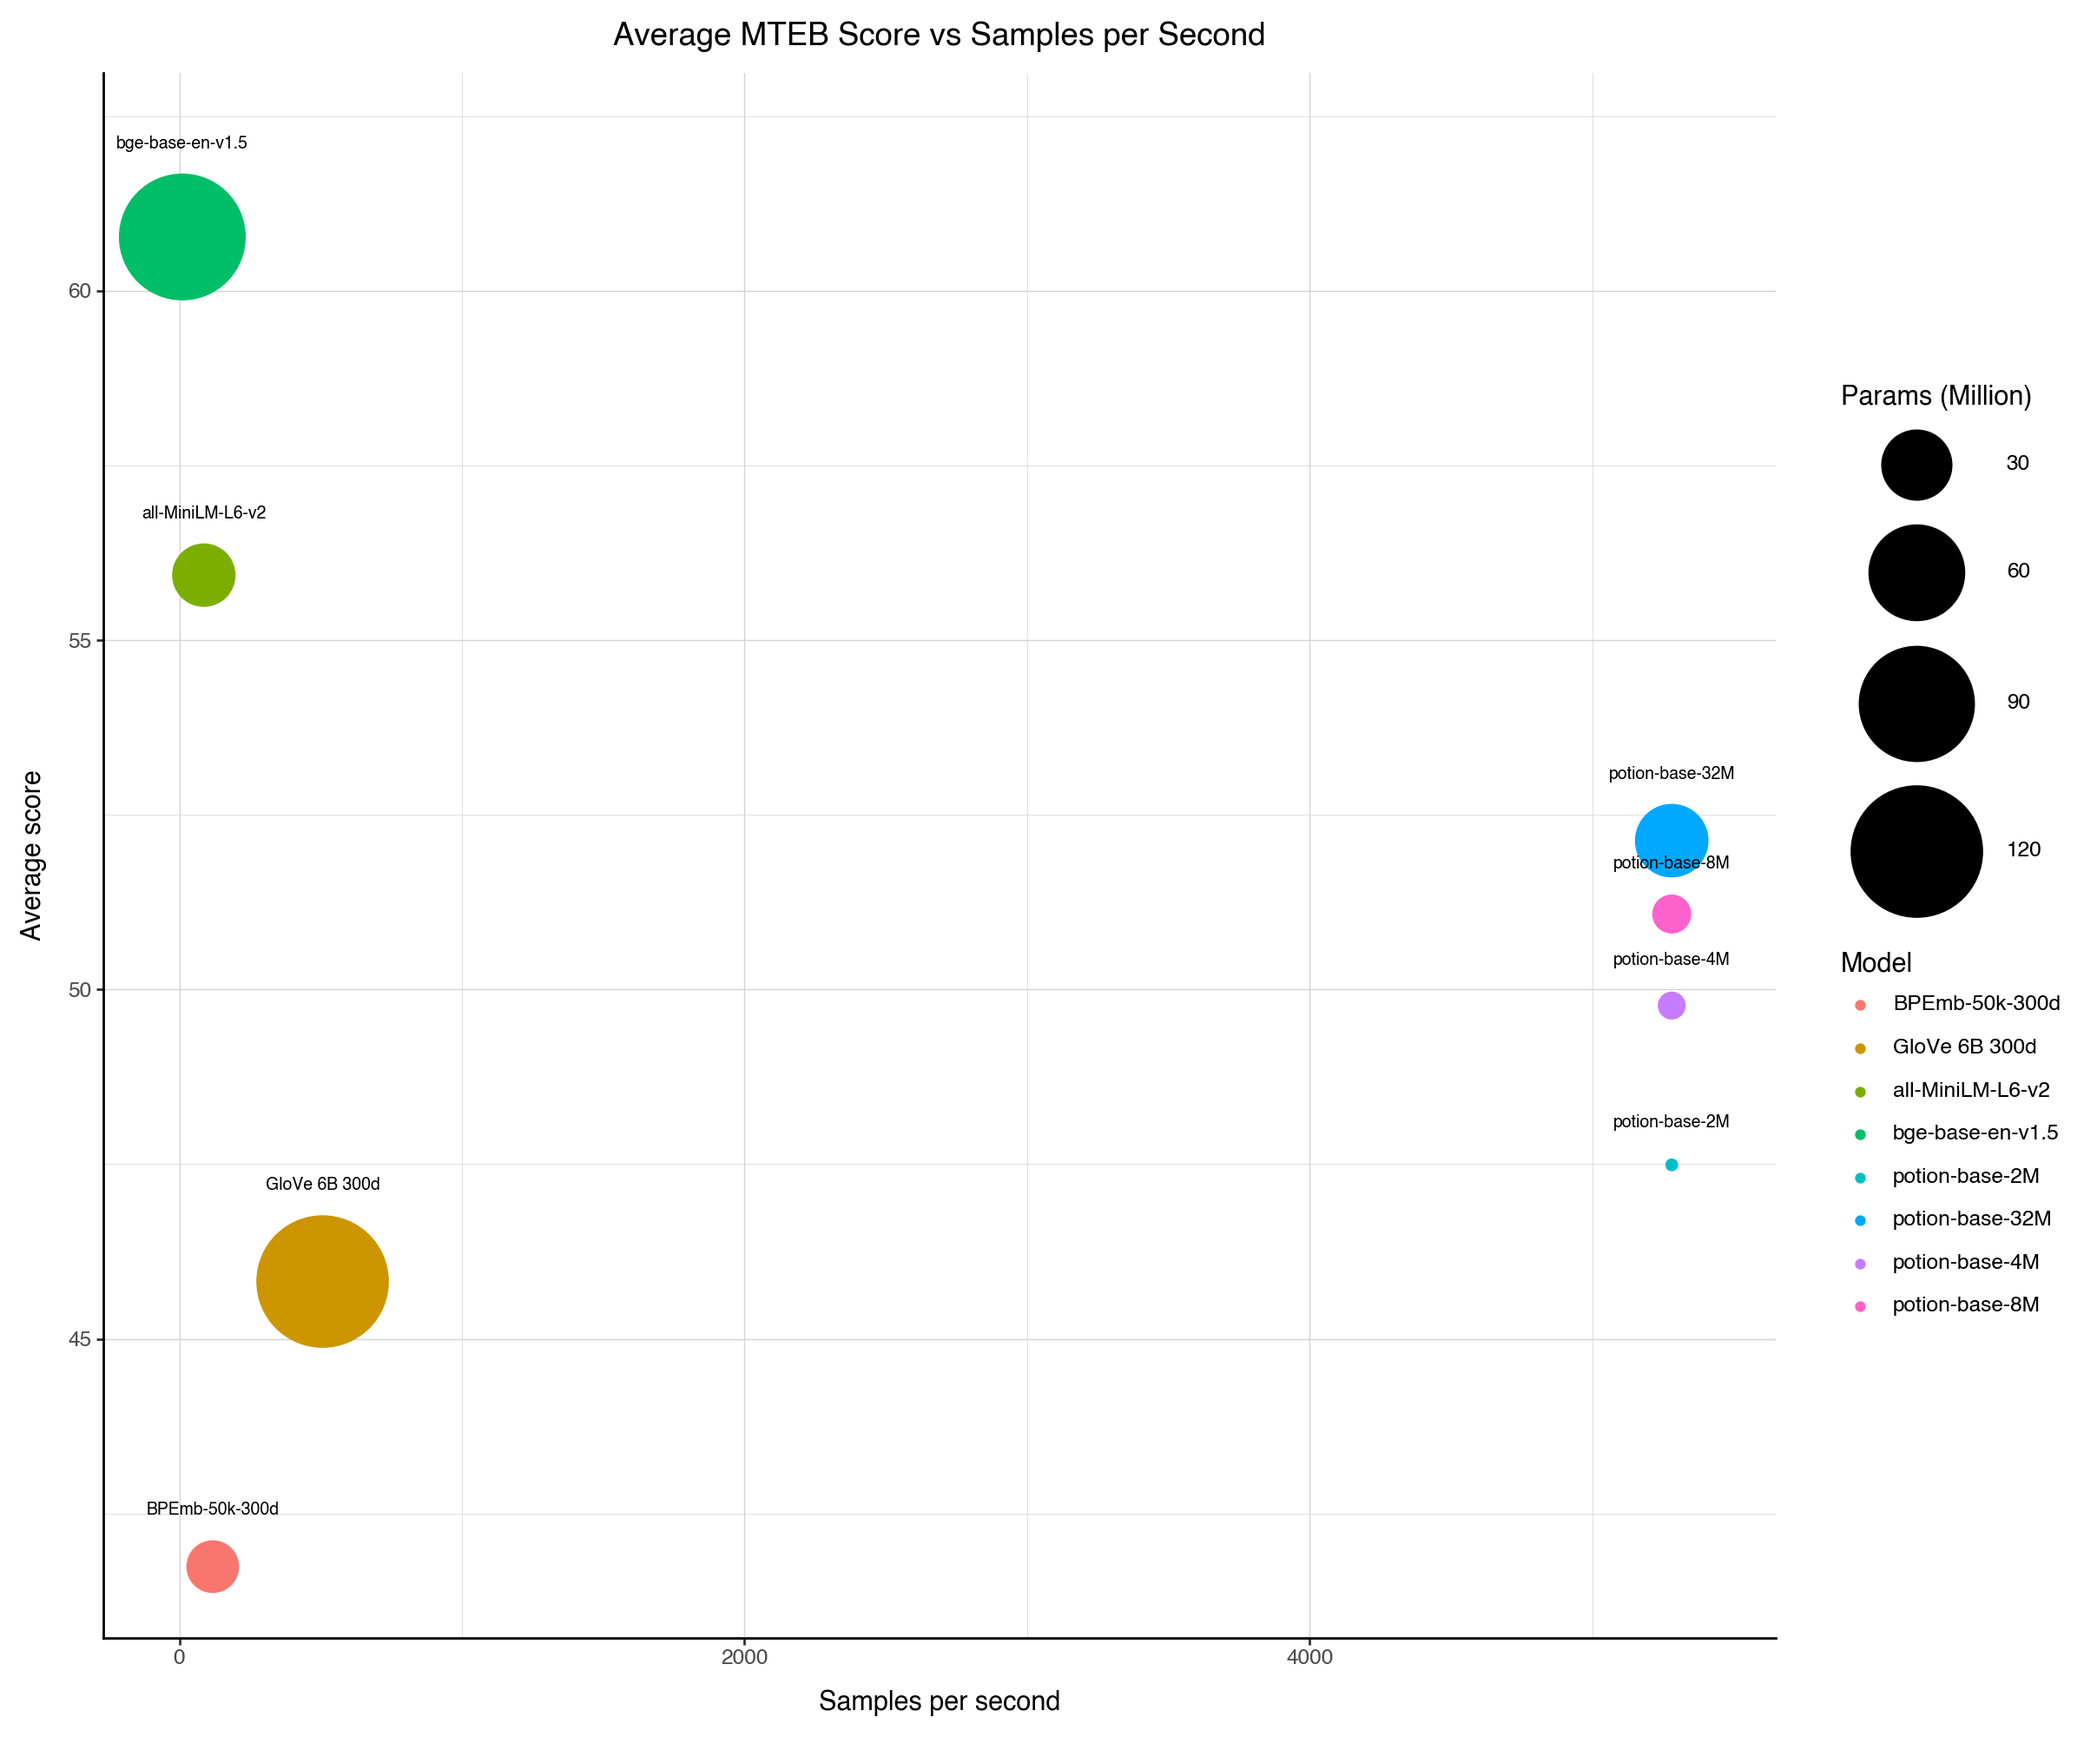
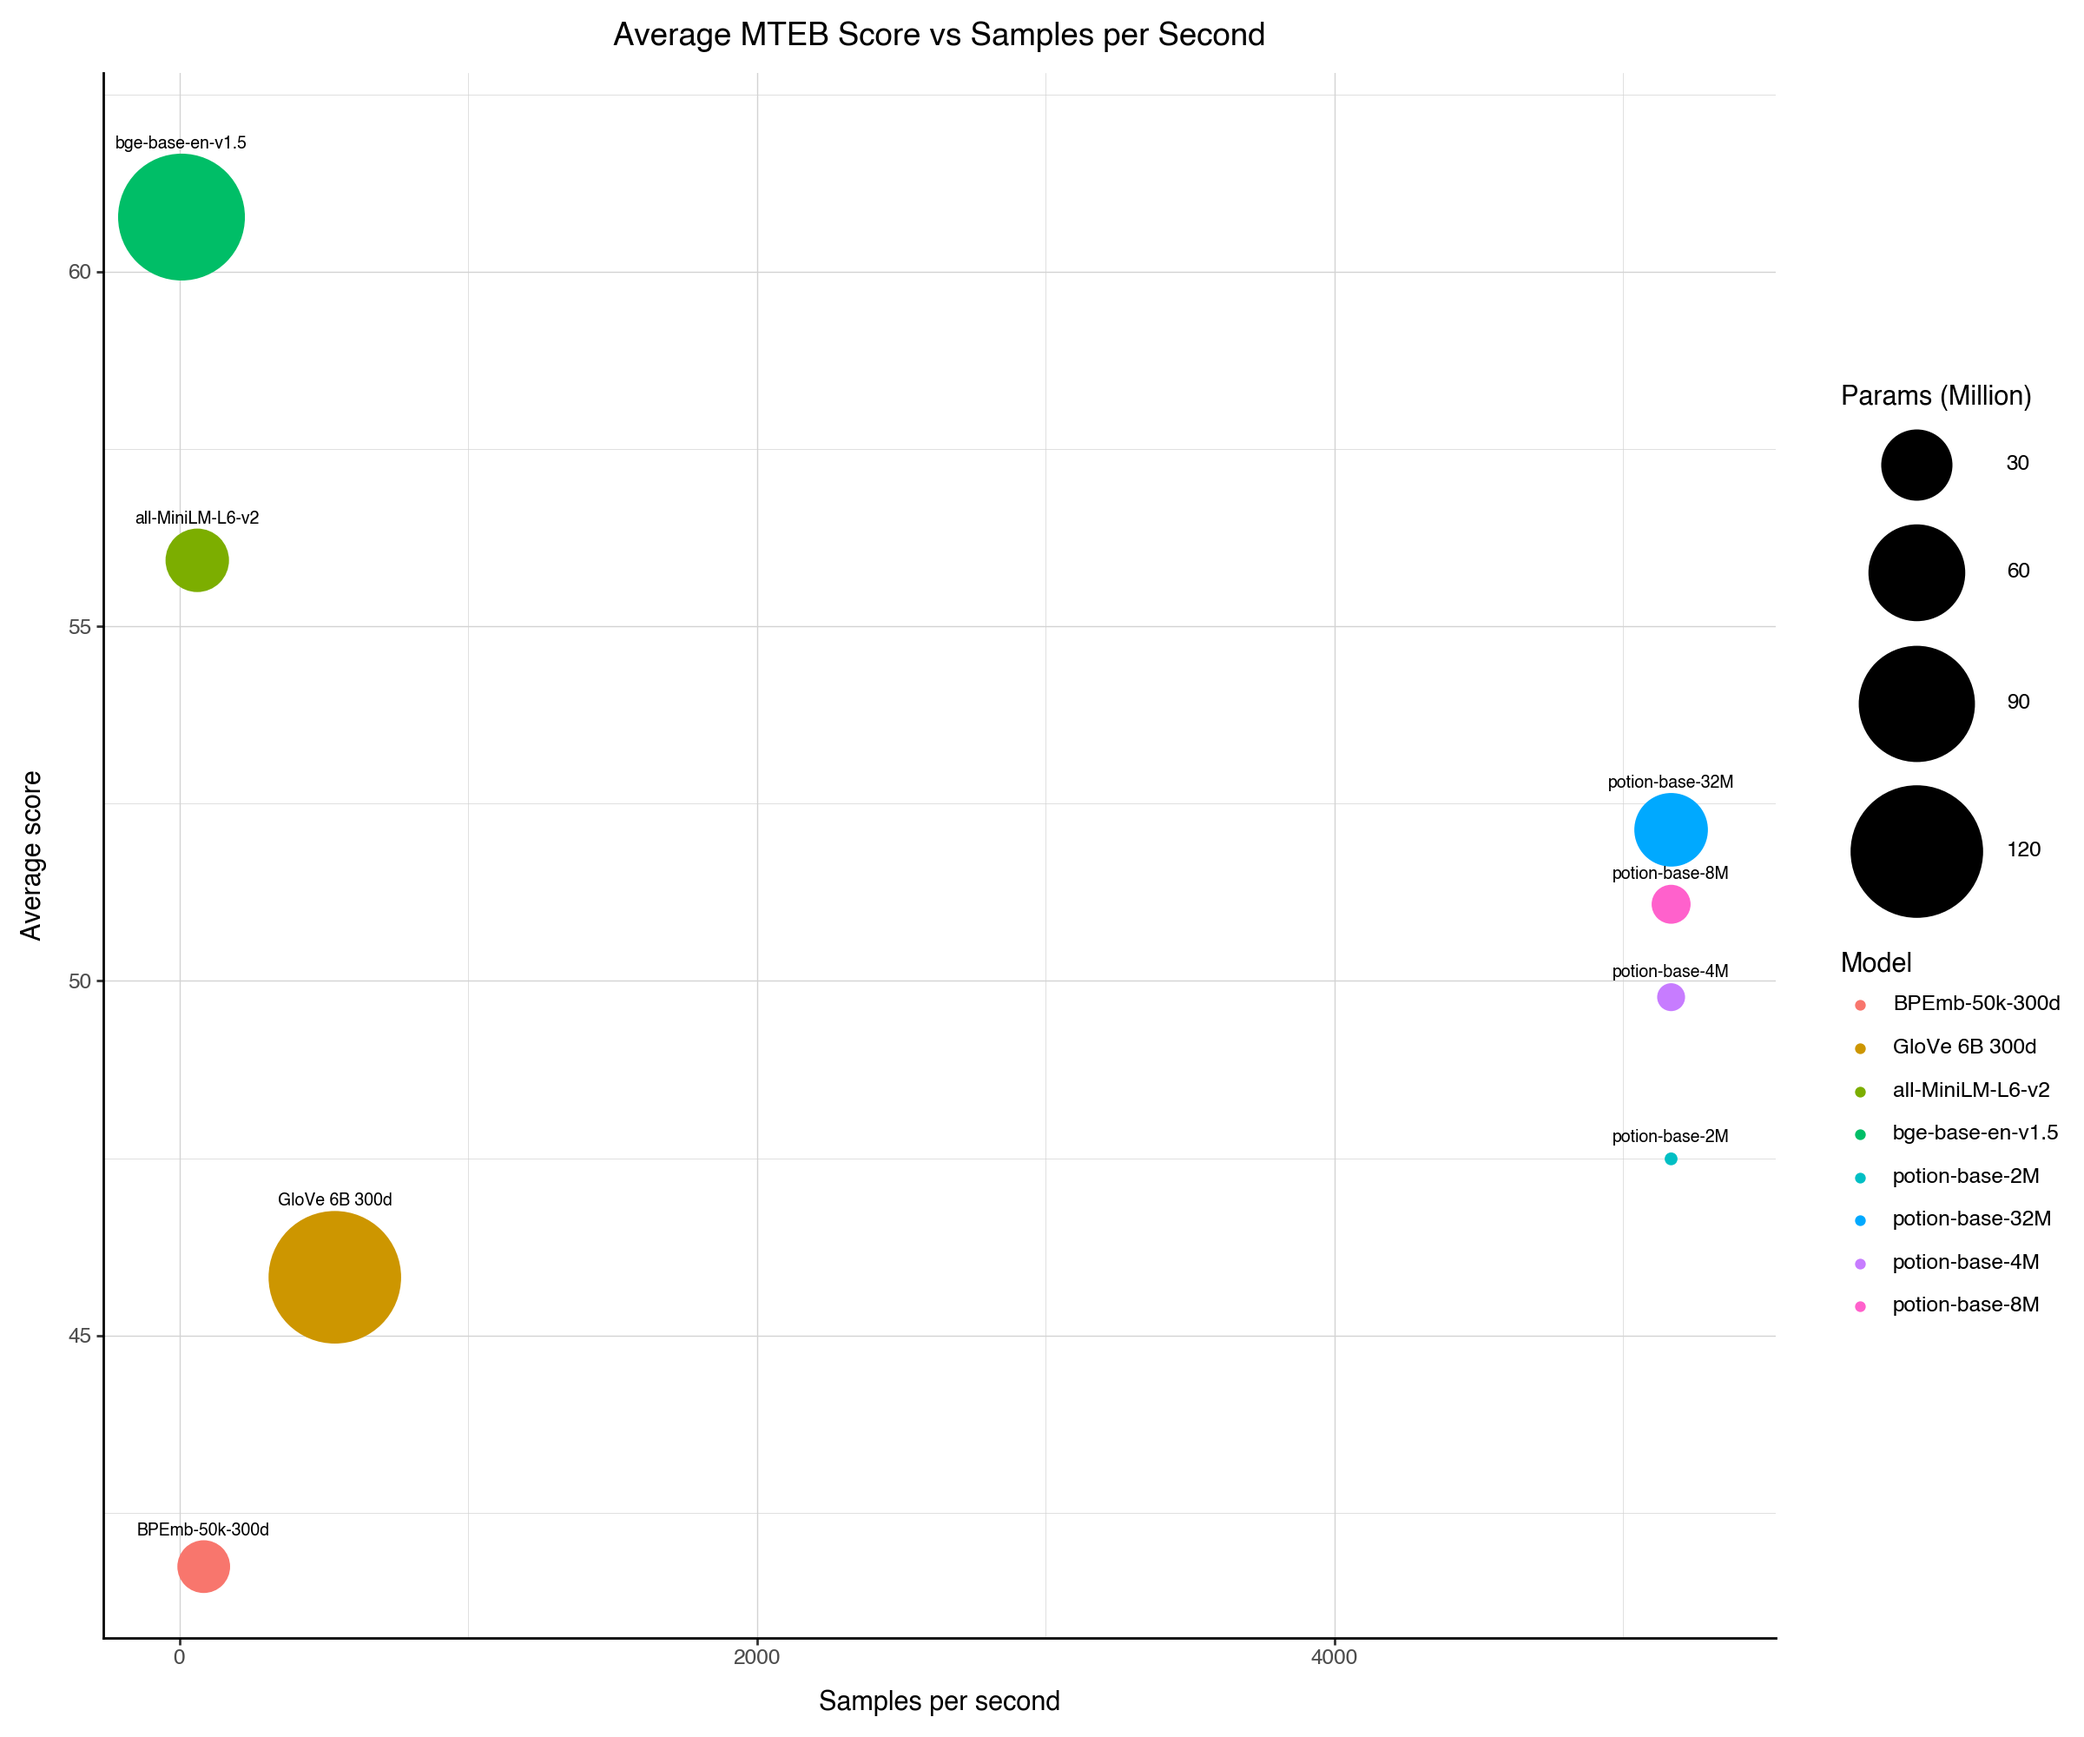
Update plot

diff --git a/results/make_speed_vs_mteb_plot.py b/results/make_speed_vs_mteb_plot.py
@@ -1,7 +1,6 @@
 """Script to benchmark the speed of various text embedding models and generate a plot of the MTEB score vs samples per second."""
 
 import argparse
-import json
 import logging
 from pathlib import Path
 from time import perf_counter
@@ -57,7 +56,7 @@ def make_plot(df: pd.DataFrame) -> ggplot:
     """Create a plot of the MTEB score vs samples per second."""
     df["label_y"] = (
         df["Average score"]
-        + 0.5  # a constant "base" offset for all bubbles
+        + 0.2  # a constant "base" offset for all bubbles
         + 0.08 * np.sqrt(df["Params (Million)"])
     )
     plot = (
@@ -110,7 +109,16 @@ def main(save_path: str, n_texts: int, force_benchmark: bool) -> None:
     """Benchmark text embedding models and generate a plot."""
     save_dir = Path(save_path)
     save_dir.mkdir(parents=True, exist_ok=True)
-    json_path = save_dir / "speed_benchmark_results.json"
+
+    # Cached speeds (samples/sec, measured on CPU with 1k Wikipedia texts).
+    # Re-run with --force-benchmark to update these values.
+    cached_speeds: dict[str, float] = {
+        "BPEmb-50k-300d": 84.39,
+        "all-MiniLM-L6-v2": 62.00,
+        "bge-base-en-v1.5": 7.42,
+        "GloVe 6B 300d": 538.39,
+        "potion-base-8M": 5165.96,
+    }
 
     summarized_results = [
         {"Model": "potion-base-2M", "Average score": 47.49, "Samples per second": None, "Params (Million)": 1.875},
@@ -123,12 +131,7 @@ def main(save_path: str, n_texts: int, force_benchmark: bool) -> None:
         {"Model": "potion-base-32M", "Average score": 52.13, "Samples per second": None, "Params (Million)": 32.300},
     ]
 
-    if not force_benchmark and json_path.exists():
-        logger.info(f"Loading cached timings from {json_path} (use --force-benchmark to re-run)")
-        with open(json_path) as file:
-            timings = json.load(file)
-    else:
-        # Define the models to benchmark
+    if force_benchmark:
         models: dict[str, list[str]] = {
             "BPEmb-50k-300d": ["", "BPEmb"],
             "all-MiniLM-L6-v2": ["sentence-transformers/all-MiniLM-L6-v2", "ST"],
@@ -136,24 +139,17 @@ def main(save_path: str, n_texts: int, force_benchmark: bool) -> None:
             "GloVe 6B 300d": ["sentence-transformers/average_word_embeddings_glove.6B.300d", "ST"],
             "potion-base-8M": ["minishlab/potion-base-8M", "M2V"],
         }
-
-        # Load the dataset
         ds = load_dataset("wikimedia/wikipedia", data_files="20231101.en/train-00000-of-00041.parquet")["train"]
         texts = ds["text"][:n_texts]
-
-        timings = {}
         for name, info in models.items():
             timing = benchmark_model(name, info, texts)
-            timings[name] = timing
-
-        with open(json_path, "w") as file:
-            json.dump(timings, file, indent=4)
-        logger.info(f"Timings saved to {json_path}")
+            cached_speeds[name] = float(timing["docs_per_second"])
+        logger.info("Updated speeds: %s", cached_speeds)
 
     for result in summarized_results:
         name = str(result["Model"])
-        if name in timings:
-            result["Samples per second"] = timings[name]["docs_per_second"]
+        if name in cached_speeds:
+            result["Samples per second"] = cached_speeds[name]
 
     # Set potion-base-8M as the reference speed for the other M2V models
     potion_base_8m_speed = next(
